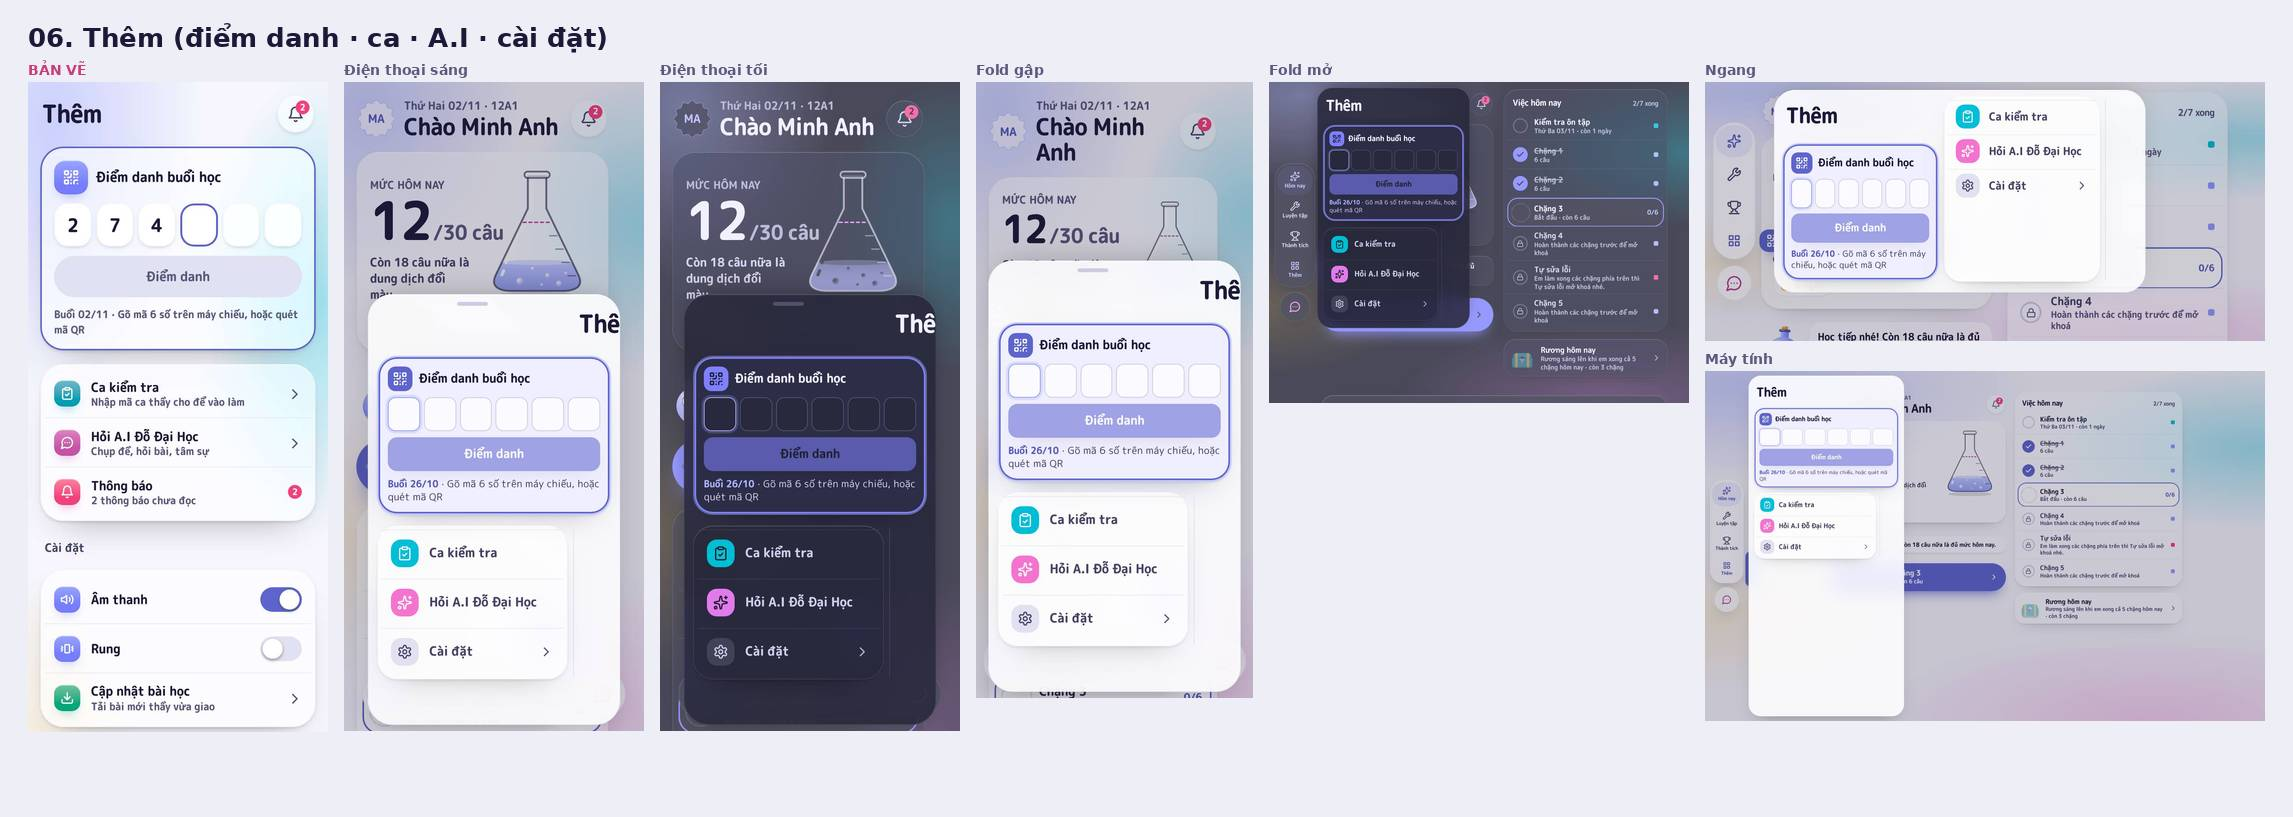
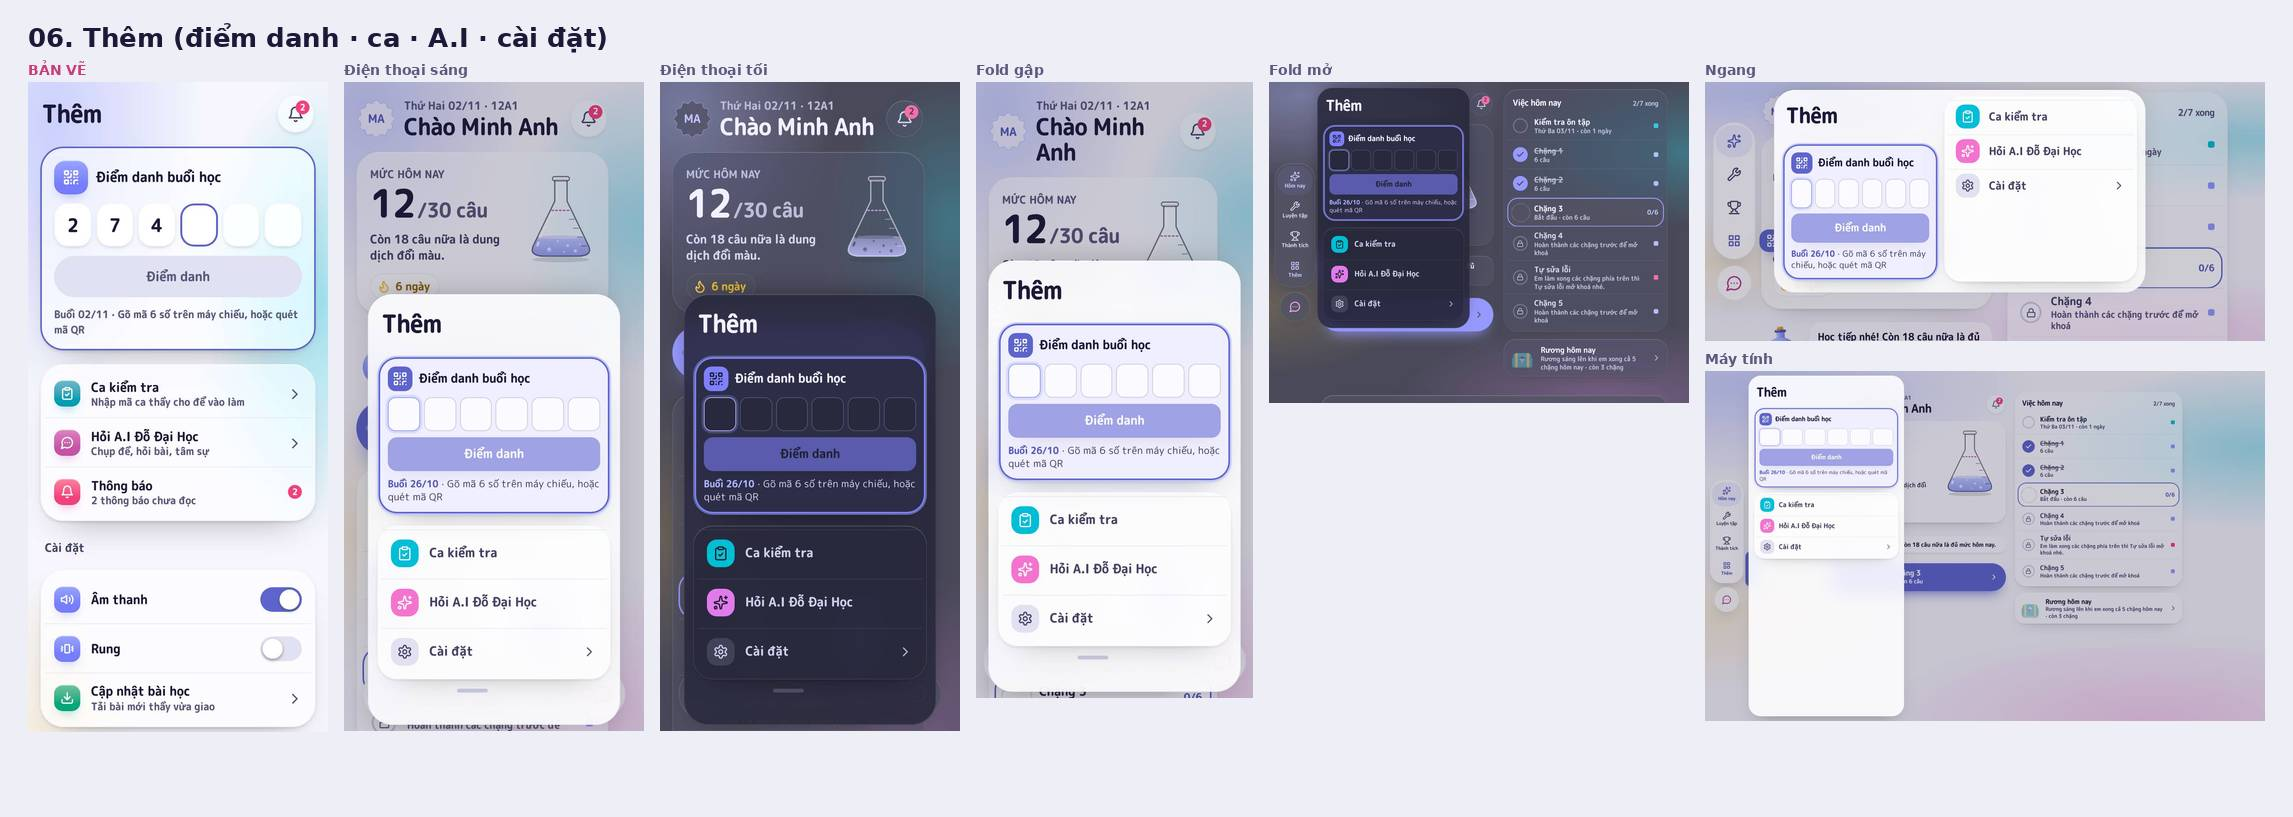
Kính HS: tấm Thêm (tiêu đề hàng đầu, danh sách đủ bề ngang khi chưa có Số của em), Thành tích khổ rộng (đầu trang chiếm cả hàng)
Claude-Session: https://claude.ai/code/session_01Ghxeuvsg4FvLEgfmchtUzP

diff --git a/src/styles/trong-kinh.css b/src/styles/trong-kinh.css
@@ -252,7 +252,7 @@ html[data-trong='hs'] .kb-the-ruong .rg-ngoc-sang { fill: var(--tr-hs-nhat); }
 html[data-trong='hs'] .kb-the-ruong .rg-ngoc-dam { fill: var(--tr-hs-chu); }
 
 /* TẤM «THÊM» như trang Thêm của bản vẽ: tiêu đề lớn, ba mục chính đã có trên thanh nổi ⇒ ẩn ở tấm, logo ẩn (chuông đã ra đầu trang) */
-html[data-trong='hs'] .kb-them-tieu { display: block; padding: 4px 6px 4px; font-size: 32px; font-weight: 800; letter-spacing: -.02em; color: var(--tr-chu); }
+html[data-trong='hs'] .kb-them-tieu { display: block; grid-column: 1 / -1; justify-self: start; white-space: nowrap; padding: 4px 6px 4px; font-size: 32px; font-weight: 800; letter-spacing: -.02em; color: var(--tr-chu); }
 html[data-trong='hs'] .tr-menu .tr-menu-dau { display: none; }
 html[data-trong='hs'] .tr-menu .tr-menu-dau:has(.tr-menu-tb) { display: flex; }
 html[data-trong='hs'] .tr-menu-ds > .tr-menu-muc:nth-child(-n + 3) { display: none; }
@@ -352,3 +352,10 @@ html:root[data-trong='hs'] .ht2[data-mot] .dm-ben { display: none; }
 @media (orientation: landscape) and (min-width: 640px), (min-width: 700px) and (min-aspect-ratio: 10/13) {
   html:root[data-trong='hs'] .ht2[data-mot] .dm-khung:has(.kb-cot-phai) { grid-template-columns: minmax(0, 1fr); }
 }
+
+/* Thành tích / Luyện tập ở khổ rộng: đầu trang kính (.kb-dau thay .da-tieu cũ) chiếm cả hàng ⇒ thẻ chuỗi ngày cột trái, danh sách cột phải như bố cục cũ */
+html[data-trong='hs'] .dm-khung[data-muc] .da-vo > .kb-dau { grid-column: 1 / -1; }
+/* Tấm «Thêm»: chữ tiêu đề nằm hàng đầu (ô «dau» cũ đang ẩn); cột «Số của em» chưa có số nào ⇒ trả bề ngang cho danh sách */
+html[data-trong='hs'] .tr-menu > .kb-them-tieu { grid-row: 1; }
+html[data-trong='hs'] .tr-menu:has(> .tr-menu-dem .tp-tr:empty) > :is(.tr-menu-ds, .tr-menu-cai) { grid-column: ds-start / -1; }
+html[data-trong='hs'] .tr-menu > .tr-menu-dem:has(.tp-tr:empty) { display: none; }
